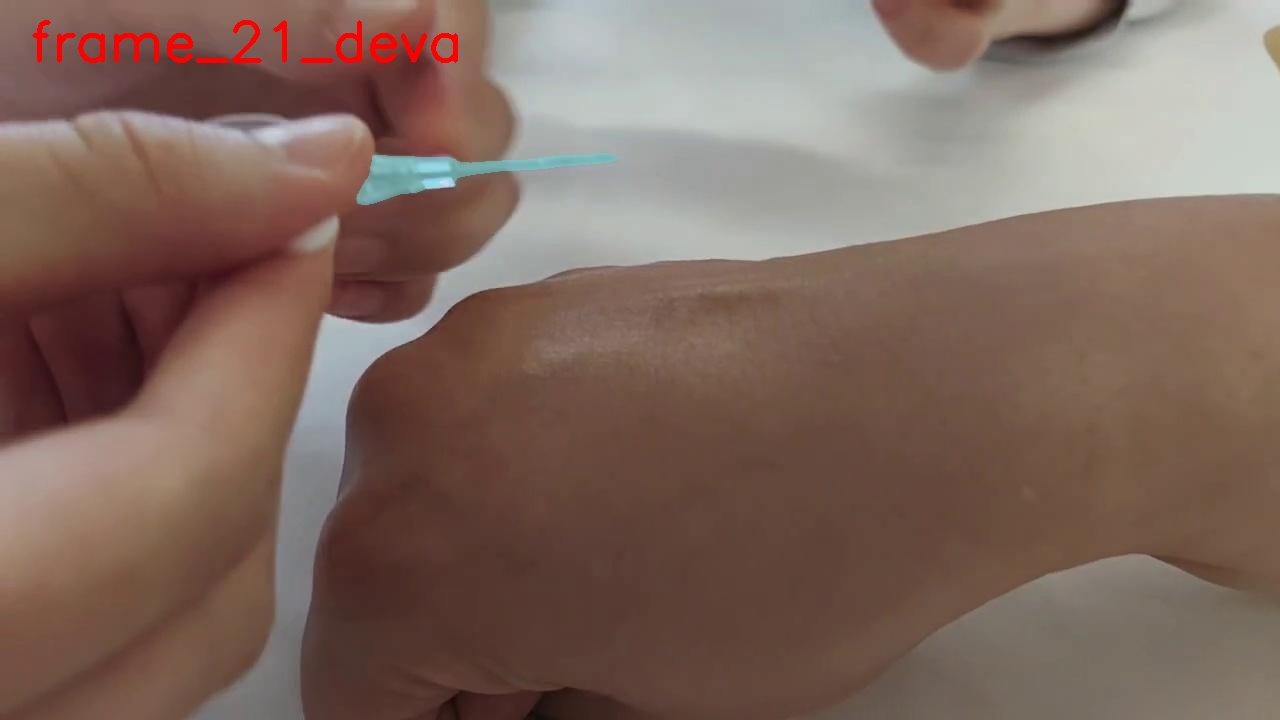
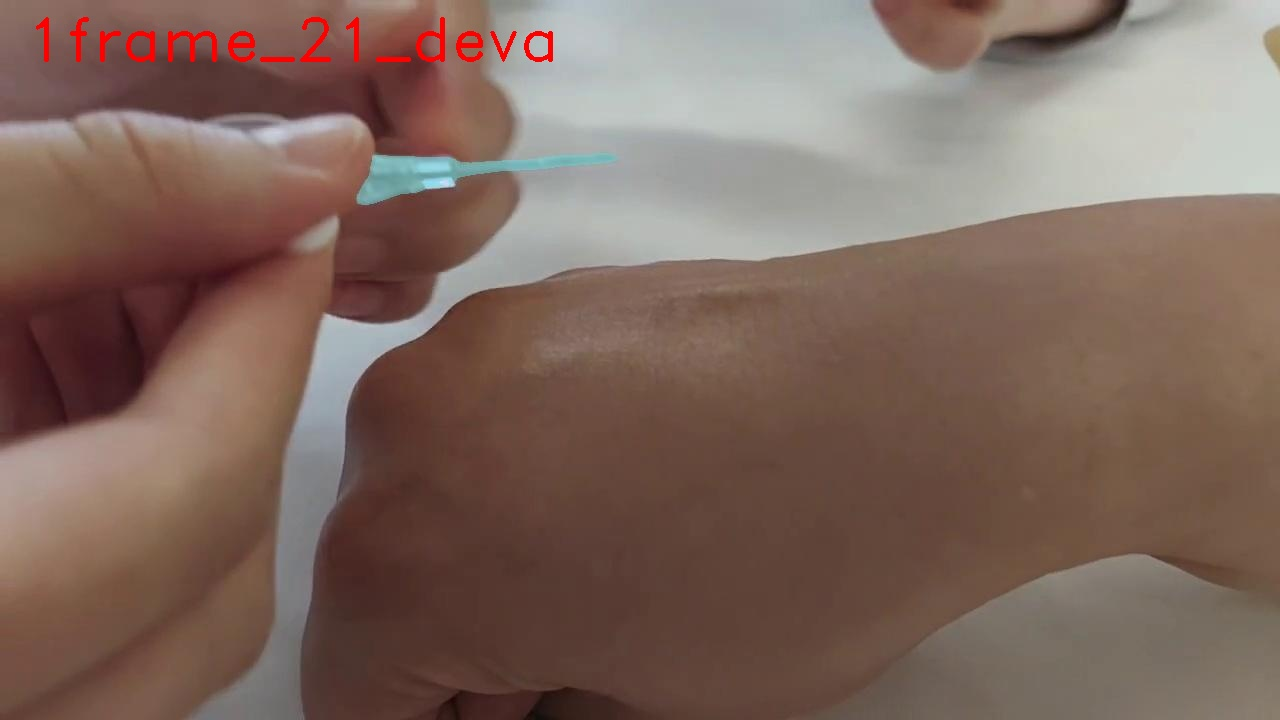
Add new assets

Changed region(s): [[0.0, 0.0, 0.4375, 0.0917]]

diff --git a/dev_tools/deva_analyze/tag_img.py b/dev_tools/deva_analyze/tag_img.py
@@ -1,0 +1,26 @@
+""" 在图片的左上角标记图片的名字 """
+import argparse
+import os
+import cv2
+
+
+def add_text_to_image(input_path, output_path, *,
+                      font_scale=2, color=(0, 0, 255),
+                      thickness=2, padding_left=25, padding_top=60
+                      ):
+    image = cv2.imread(input_path)
+    text = os.path.basename(output_path).split(".")[0]
+    cv2.putText(image, text, (padding_left, padding_top), cv2.FONT_HERSHEY_DUPLEX,
+                font_scale, color, thickness
+                )
+    cv2.imwrite(output_path, image)
+    print(f"Image saved to {output_path}")
+
+
+if __name__ == "__main__":
+    parser = argparse.ArgumentParser(description="在图片左上角添加红色文字")
+    parser.add_argument("input_path", type=str, help="输入图片路径")
+    parser.add_argument("output_path", type=str, help="输出图片目录")
+    
+    args = parser.parse_args()
+    add_text_to_image(args.input_path, args.output_path)

diff --git a/docs/quickstart.md b/docs/quickstart.md
@@ -20,20 +20,7 @@ python -m pip install .
 python -m pip install -e .
 ```
 
-### 3. 安装子模块
-
-安装子模块 DEVA、Segment Anything 和 thinplate。
-
-> thinplate 是模块 DEVA 的依赖，如无法从 GitHub 获取，则可以从本地安装。
-> 同时，将 deva/pyproject.toml 中对 thinplate 的依赖需求注释掉。
-
-```bash
-git submodule update --init --recursive
-```
-
-然后分别本地安装以上子模块。
-
-### 安装 mmcv
+### 3. 安装 mmcv
 
 可参考[官方教程](https://mmcv.readthedocs.io/en/latest/get_started/installation.html)
 
